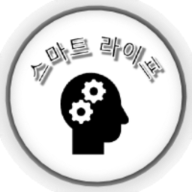
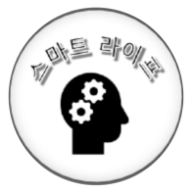
Add files via upload

diff --git a/flutter_service_worker.js b/flutter_service_worker.js
@@ -16,12 +16,12 @@ const RESOURCES = {
 "canvaskit/profiling/canvaskit.js": "ae2949af4efc61d28a4a80fffa1db900",
 "canvaskit/profiling/canvaskit.wasm": "95e736ab31147d1b2c7b25f11d4c32cd",
 "favicon.png": "406b992a68a989e060a4127c33e24d4a",
-"icons/Icon-192.png": "fcda964c0b97e549403bfab953fc0c8f",
-"icons/Icon-512.png": "824438bf21b157f10bc65a769fb53aba",
-"icons/Icon-maskable-192.png": "fcda964c0b97e549403bfab953fc0c8f",
-"icons/Icon-maskable-512.png": "824438bf21b157f10bc65a769fb53aba",
-"index.html": "ee7eb5269abfaf4d1cb6234436d2b382",
-"/": "ee7eb5269abfaf4d1cb6234436d2b382",
+"icons/Icon-192.png": "c86f6fe5b5d1556155fa3bb8883b2788",
+"icons/Icon-512.png": "1f90985b02b498aec9f6bc006e38a031",
+"icons/Icon-maskable-192.png": "c86f6fe5b5d1556155fa3bb8883b2788",
+"icons/Icon-maskable-512.png": "1f90985b02b498aec9f6bc006e38a031",
+"index.html": "fa121c6b576324a5a4c23a9dfec7fc2a",
+"/": "fa121c6b576324a5a4c23a9dfec7fc2a",
 "main.dart.js": "d6d7573001cf5d4081c0f20b8aa9517f",
 "manifest.json": "f5298eb194dad44b54cea74bc8519057",
 "version.json": "725aaae93aaf52bcd8e2d973daa91140"

diff --git a/index.html b/index.html
@@ -37,7 +37,7 @@
        application. For more information, see:
        https://developers.google.com/web/fundamentals/primers/service-workers -->
   <script>
-    var serviceWorkerVersion = '3841439132';
+    var serviceWorkerVersion = '3788680658';
     var scriptLoaded = false;
     function loadMainDartJs() {
       if (scriptLoaded) {
